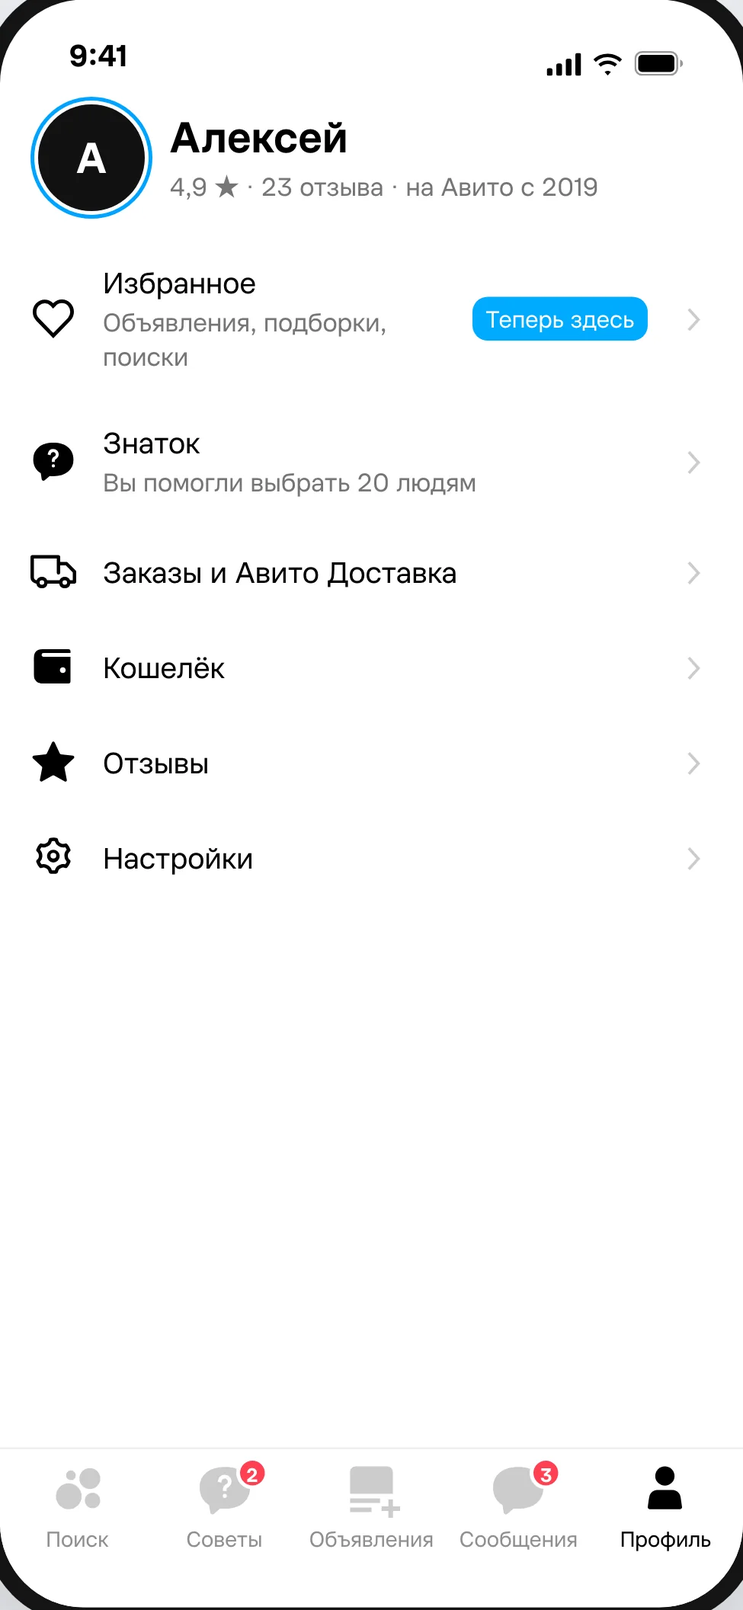
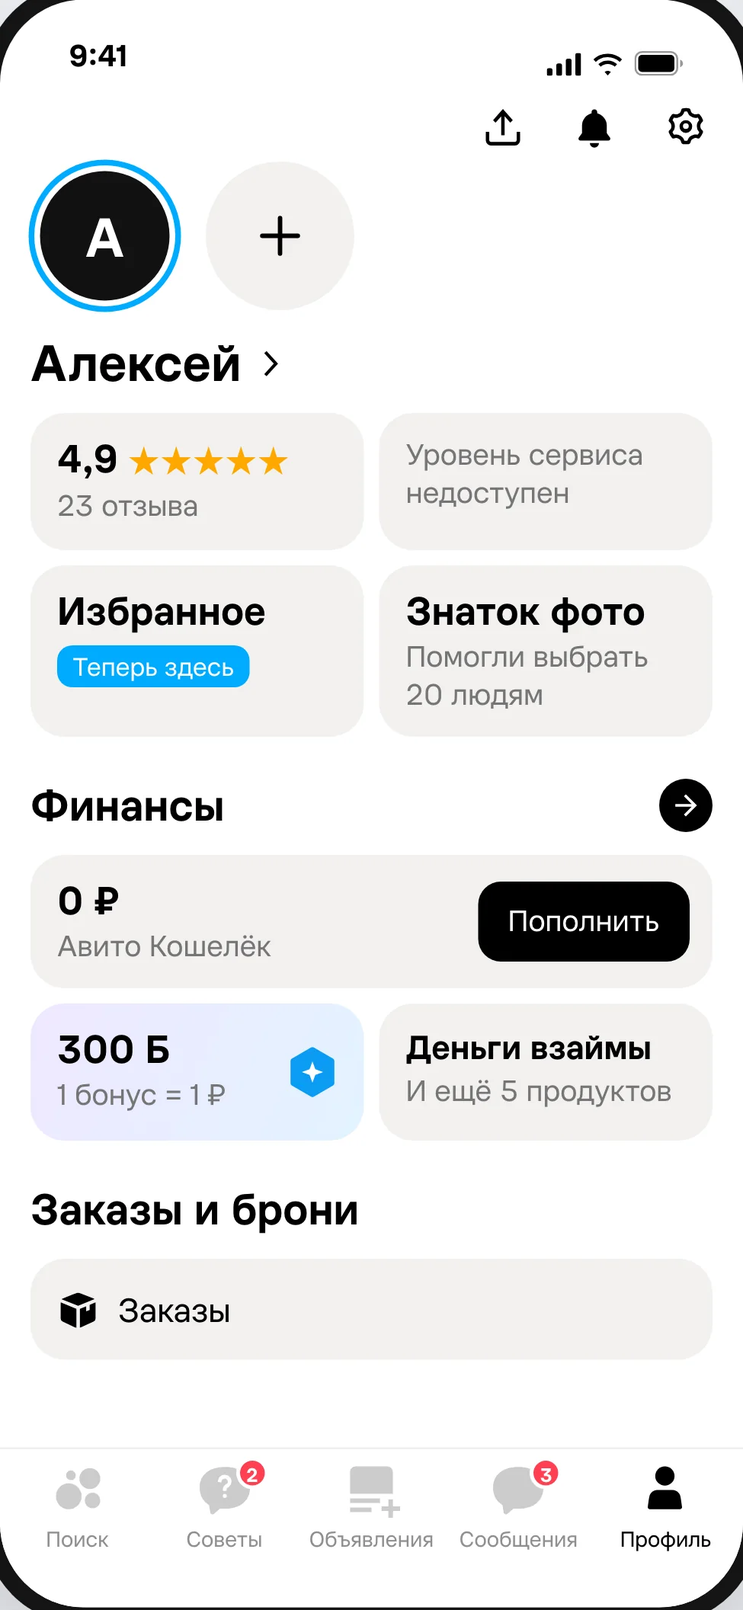
fix: профиль в макетах по настоящему профилю Авито, Избранное и Знаток карточками

diff --git a/maket/index.html b/maket/index.html
@@ -86,7 +86,7 @@ footer{padding:28px 0 44px;font-size:13px;color:var(--muted)}
   <div class="k">4 решения</div>
   <h2>Что выбрали и почему</h2>
   <p class="bp">Итоговый вариант по всем пунктам из видео. Все 10 видов ленты и другие места для Сигнала - в конце страницы, если захочется сравнить.</p>
-  <div class="dgrid"><a class="dc" href="#s01"><div class="h"><span class="num">01</span><b>Лента советов</b></div><p class="dec">Посты как в Instagram и X, собранные из деталей Авито: автор, вопрос, лучший ответ знатока, фото вещи с названием и ценой, счётчики «14 ответов», «Полезно 23», «Близким». Сверху «Мои вопросы», кнопка «Задать вопрос» всегда в углу</p><p class="why">Лента должна цеплять, как соцсети, и быть понятной 60-летнему. Польза видна без клика, обсуждение ведёт к объявлению (23:30)</p><span class="go">К экранам →</span></a><a class="dc" href="#s02"><div class="h"><span class="num">02</span><b>Где живут Советы</b></div><p class="dec">Вкладка «Советы» на месте Избранного. Избранное: кнопка «Избранное» рядом с поиском и первый пункт Профиля</p><p class="why">Слово «Советы» само объясняет, что внутри. Объявления и Сообщения на своих местах (11:41), Избранное в одно касание</p><span class="go">К экранам →</span></a><a class="dc" href="#s05"><div class="h"><span class="num">05</span><b>Близкие</b></div><p class="dec">Переписка в Сообщениях, близкие закреплены сверху. В Советах карточка «Аня просит совета» с кнопкой «Помочь Ане». Присланное оцениваем кнопками «Нравится» и «Не то»</p><p class="why">Одно место для чатов (14:47-15:20). Кнопку со словом поймёт любой, кружок и свайп - не каждый</p><span class="go">К экранам →</span></a><a class="dc" href="#s06"><div class="h"><span class="num">06</span><b>Опыт владельцев</b></div><p class="dec">До 10 отзывов о модели одна цитата, от 10 короткая сводка Ави: плюсы и минусы обычными словами</p><p class="why">Сводка по 2-3 отзывам ненадёжна. Яндекс тоже включает ИИ-сводку от 10 отзывов</p><span class="go">К экранам →</span></a></div>
+  <div class="dgrid"><a class="dc" href="#s01"><div class="h"><span class="num">01</span><b>Лента советов</b></div><p class="dec">Посты как в Instagram и X, собранные из деталей Авито: автор, вопрос, лучший ответ знатока, фото вещи с названием и ценой, счётчики «14 ответов», «Полезно 23», «Близким». Сверху «Мои вопросы», кнопка «Задать вопрос» всегда в углу</p><p class="why">Лента должна цеплять, как соцсети, и быть понятной 60-летнему. Польза видна без клика, обсуждение ведёт к объявлению (23:30)</p><span class="go">К экранам →</span></a><a class="dc" href="#s02"><div class="h"><span class="num">02</span><b>Где живут Советы</b></div><p class="dec">Вкладка «Советы» на месте Избранного. Избранное: кнопка «Избранное» рядом с поиском и карточка в Профиле</p><p class="why">Слово «Советы» само объясняет, что внутри. Объявления и Сообщения на своих местах (11:41), Избранное в одно касание</p><span class="go">К экранам →</span></a><a class="dc" href="#s05"><div class="h"><span class="num">05</span><b>Близкие</b></div><p class="dec">Переписка в Сообщениях, близкие закреплены сверху. В Советах карточка «Аня просит совета» с кнопкой «Помочь Ане». Присланное оцениваем кнопками «Нравится» и «Не то»</p><p class="why">Одно место для чатов (14:47-15:20). Кнопку со словом поймёт любой, кружок и свайп - не каждый</p><span class="go">К экранам →</span></a><a class="dc" href="#s06"><div class="h"><span class="num">06</span><b>Опыт владельцев</b></div><p class="dec">До 10 отзывов о модели одна цитата, от 10 короткая сводка Ави: плюсы и минусы обычными словами</p><p class="why">Сводка по 2-3 отзывам ненадёжна. Яндекс тоже включает ИИ-сводку от 10 отзывов</p><span class="go">К экранам →</span></a></div>
 </section>
 
 <section id="pains">
@@ -97,12 +97,12 @@ footer{padding:28px 0 44px;font-size:13px;color:var(--muted)}
 </section>
 
 <section id="s01"><div class="k">01 · Решение · лента советов</div><h2>Советы: цепляет, как Instagram и X, выглядит как Авито</h2><p class="bp">Интерфейс собран из настоящего Авито: шрифт Avito Sans, иконки и цвета дизайн-системы. Лента устроена как в соцсетях: каждый вопрос - пост с автором, лучшим ответом знатока и крупным фото вещи из ответа, внизу счётчики со словами «14 ответов», «Полезно 23», «Близким». В каждом посте видно, что беспокоит человека и чем всё закончилось. Кнопка «Задать вопрос» всегда в углу экрана. Варианты ленты, которые рассматривали, в конце страницы.</p><div class="rail"><figure class="card"><img src="img/01_feed_01.webp" width="975" height="2113" loading="eager" alt="Открыли Советы"><figcaption><span class="n">1</span><b>Открыли Советы</b><p>Вопрос выглядит как пост в соцсети: автор, боль («дважды падала у метро»), лучший ответ знатока и фото вещи с названием и ценой, как в выдаче Авито. Под ответом итог: «Заказала, спасибо!». Внизу счётчики со словами, кнопка «Задать вопрос» всегда в углу экрана.</p></figcaption></figure><figure class="card"><img src="img/01_feed_02.webp" width="975" height="2113" loading="eager" alt="Когда нужна ваша помощь"><figcaption><span class="n">2</span><b>Когда нужна ваша помощь</b><p>Аня боится купить сломанный фотоаппарат и присылает два варианта с фото, как опрос в соцсети. Помочь можно одной кнопкой «Помочь Ане». Ниже вопрос вашей темы без ответа с пометкой «Можно ответить первым»: Ника боится камеры с дефектом.</p></figcaption></figure></div><div class="cnt"></div></section>
-<section id="s02"><div class="k">02 · Решение · нижняя панель</div><h2>Где живут Советы</h2><p class="bp">Пять вкладок, как в Авито сейчас: «Советы» встают на место Избранного, Объявления и Сообщения остаются на своих местах. Избранное не теряется: кнопка «Избранное» рядом с поиском и первый пункт Профиля с пометкой «Теперь здесь». Главная, плитки категорий и профиль - как в Авито.</p><div class="rail"><figure class="card"><img src="img/02_nav_01.webp" width="975" height="2113" loading="lazy" alt="Советы вместо Избранного"><figcaption><span class="n">1</span><b>Советы вместо Избранного</b><p>Главная Авито как есть, добавлена только кнопка «Избранное» рядом с поиском. В нижней панели пять вкладок: Поиск, Советы, Объявления, Сообщения, Профиль.</p></figcaption></figure><figure class="card"><img src="img/02_nav_02.webp" width="975" height="2113" loading="lazy" alt="Избранное в Профиле"><figcaption><span class="n">2</span><b>Избранное в Профиле</b><p>Избранное первым пунктом профиля с пометкой «Теперь здесь», ниже «Знаток» с вашими ответами. Профиль Авито не переделываем, только добавляем пункты.</p></figcaption></figure></div><div class="cnt"></div></section>
+<section id="s02"><div class="k">02 · Решение · нижняя панель</div><h2>Где живут Советы</h2><p class="bp">Пять вкладок, как в Авито сейчас: «Советы» встают на место Избранного, Объявления и Сообщения остаются на своих местах. Избранное не теряется: кнопка «Избранное» рядом с поиском и карточка в Профиле с пометкой «Теперь здесь». Главная, плитки категорий и профиль - как в Авито.</p><div class="rail"><figure class="card"><img src="img/02_nav_01.webp" width="975" height="2113" loading="lazy" alt="Советы вместо Избранного"><figcaption><span class="n">1</span><b>Советы вместо Избранного</b><p>Главная Авито как есть, добавлена только кнопка «Избранное» рядом с поиском. В нижней панели пять вкладок: Поиск, Советы, Объявления, Сообщения, Профиль.</p></figcaption></figure><figure class="card"><img src="img/02_nav_02.webp" width="975" height="2113" loading="lazy" alt="Избранное в Профиле"><figcaption><span class="n">2</span><b>Избранное в Профиле</b><p>Профиль Авито как есть, добавлены только две карточки в том же стиле: «Избранное» с пометкой «Теперь здесь» и «Знаток» с главным итогом: помогли выбрать 20 людям. 300 бонусов в Финансах начислены за покупки по вашим советам.</p></figcaption></figure></div><div class="cnt"></div></section>
 <section id="s03"><div class="k">03 · Решение · задать вопрос</div><h2>Задать вопрос на одном экране</h2><p class="bp">Одно поле, как письмо другу, и кнопка «Сказать голосом». Категорию, бюджет и размер понимает Ави, помощник Авито, и показывает одной строкой. Кому показать вопрос - два варианта словами. После отправки сразу понятно, что вопрос ушёл и что будет дальше. Пример - ваш собственный вопрос: пуховик, в котором не мёрзнешь на остановке.</p><div class="rail"><figure class="card"><img src="img/03_create_01.webp" width="975" height="2113" loading="lazy" alt="Текстом или голосом"><figcaption><span class="n">1</span><b>Текстом или голосом</b><p>Пишете как в мессенджере или говорите голосом. Ави сам понимает категорию, бюджет и размер. Кому показать - два понятных варианта, выбираются до отправки.</p></figcaption></figure><figure class="card"><img src="img/03_create_02.webp" width="975" height="2113" loading="lazy" alt="Сразу после отправки"><figcaption><span class="n">2</span><b>Сразу после отправки</b><p>Зелёная плашка «Вопрос отправлен» и что будет дальше. Ниже объявления, которые подобрал Ави, и похожие вопросы. Экран не пустой, понятно, что делать, пока ждёте ответ.</p></figcaption></figure><figure class="card"><img src="img/03_create_03.webp" width="975" height="2113" loading="lazy" alt="Когда пришли ответы"><figcaption><span class="n">3</span><b>Когда пришли ответы</b><p>Проблема решилась прямо здесь: знаток одежды Света прислала пуховик вашего размера, вы нажали «Помогло» и пишете «Заказал с Авито Доставкой». У каждого ответа одинаковые кнопки «Помогло» и «Ответить».</p></figcaption></figure></div><div class="cnt"></div></section>
 <section id="s04"><div class="k">04 · Решение · ответить на вопрос</div><h2>Вопрос и ответ</h2><p class="bp">Ответы выглядят как обычные комментарии: сверху тот, что помог автору, под ним ответы на него. У каждого действия есть подпись: «Отправить близким», «Написать ответ», «Добавить объявление». Объявление к ответу прикрепляется кнопкой со словами, а не значком «+». Пример - вопрос Марины через 10 минут после публикации, пока она ещё выбирает: вы советуете из своего опыта.</p><div class="rail"><figure class="card"><img src="img/04_thread_01.webp" width="975" height="2113" loading="lazy" alt="Вопрос и ответы"><figcaption><span class="n">1</span><b>Вопрос и ответы</b><p>Марина боится снова упасть. Илья советует модель с объявлением, а сомнение про размер закрывает прямо в ветке: «Свой, с тёплым носком как раз». Его ответ сверху с пометкой «помогло автору». Остальные 12 ответов открываются кнопкой, свой можно добавить кнопкой «Написать ответ».</p></figcaption></figure><figure class="card"><img src="img/04_thread_02.webp" width="975" height="2113" loading="lazy" alt="«Добавить объявление»"><figcaption><span class="n">2</span><b>«Добавить объявление»</b><p>Нажали «Добавить объявление». Вместо значка «+» кнопка со словами и три понятных способа: подобрать по вопросу, взять из Избранного или сфотографировать свои кроссовки. Шторка закрывается кнопкой «Закрыть».</p></figcaption></figure><figure class="card"><img src="img/04_thread_03.webp" width="975" height="2113" loading="lazy" alt="Подобрать по вопросу"><figcaption><span class="n">3</span><b>Подобрать по вопросу</b><p>Объявления уже отобраны по вопросу Марины. Под каждым кнопка «Выбрать», выбранное отмечено галочкой, а то, что уже посоветовал Илья, помечено «Уже у Ильи». Так ответ сразу ведёт к покупке.</p></figcaption></figure><figure class="card"><img src="img/04_thread_04.webp" width="975" height="2113" loading="lazy" alt="Ответ с вещью"><figcaption><span class="n">4</span><b>Ответ с вещью</b><p>Текст и прикреплённое объявление уходят одним ответом. Если прикрепить своё объявление, ответ получит пометку «Реклама».</p></figcaption></figure></div><div class="cnt"></div></section>
 <section id="s05"><div class="k">05 · Решение · близкие</div><h2>Близкие вместо групп</h2><p class="bp">Групповых чатов с незнакомыми нет: только семья и друзья, которых вы позвали сами, а темы по интересам - в ленте Советов. Переписка живёт в обычных Сообщениях Авито, близкие закреплены сверху. В Советах просьба близкого приходит карточкой с кнопкой «Помочь». Что прислал папа, оцениваем кнопками «Нравится» и «Не то», без свайпов.</p><div class="rail"><figure class="card"><img src="img/05_close_01.webp" width="975" height="2113" loading="lazy" alt="Нажали «Помочь Ане»"><figcaption><span class="n">1</span><b>Нажали «Помочь Ане»</b><p>Поверх Советов открылся семейный чат, тот же, что в Сообщениях. Аня боится купить сломанный, мама одобрила Зенит, вы советуете попросить видео затвора. Шторка закрывается кнопкой «Закрыть».</p></figcaption></figure><figure class="card"><img src="img/05_close_02.webp" width="975" height="2113" loading="lazy" alt="Близкие в Сообщениях"><figcaption><span class="n">2</span><b>Близкие в Сообщениях</b><p>Через час в Сообщениях: близкие закреплены сверху и отделены от продавцов. Аня пишет «Беру! Видео пришло» - продавец прислал видео затвора, её проблема решена. Папа прислал три машины.</p></figcaption></figure><figure class="card"><img src="img/05_close_03.webp" width="975" height="2113" loading="lazy" alt="Чат с папой"><figcaption><span class="n">3</span><b>Чат с папой</b><p>Папа боялся взять машину, которая сгниёт. Прочитал ответы владельцев и решил сам: у Весты ржавеют пороги, берёт Solaris. Его варианты оцениваем по одному кнопками «Нравится» и «Не то», без свайпов.</p></figcaption></figure></div><div class="cnt"></div></section>
 <section id="s06"><div class="k">06 · Решение · карточка объявления</div><h2>Опыт владельцев, который не мешает покупке</h2><p class="bp">Карточка объявления Авито как есть: фото со счётчиком, цена, кнопки внизу. Добавлен только спокойный серый блок «Что говорят владельцы»: до&nbsp;10 отзывов о модели одна цитата, от 10 - короткая сводка Ави с плюсами и минусами (Яндекс тоже включает ИИ-сводку от 10 отзывов). Ниже вопрос об этой модели с лучшим ответом и кнопка «Задать вопрос о модели».</p><div class="rail"><figure class="card"><img src="img/06_item_01.webp" width="975" height="2113" loading="lazy" alt="До 10 отзывов: одна цитата"><figcaption><span class="n">1</span><b>До&nbsp;10 отзывов: одна цитата</b><p>Два главных страха закрыты прямо в карточке. «А вдруг не подойдёт размер» - владельцы: «садятся размер в размер». «А вдруг подделка» - лучший ответ: сверить артикул с сайтом. <span class="pro">Блок спокойный и не спорит с ценой и кнопками покупки.</span></p></figcaption></figure><figure class="card"><img src="img/06_item_02.webp" width="975" height="2113" loading="lazy" alt="От 10 отзывов: сводка Ави"><figcaption><span class="n">2</span><b>От 10 отзывов: сводка Ави</b><p>Плюсы и минусы модели по отзывам владельцев коротко, обычными словами. Так Яндекс показывает сводку отзывов в Маркете, от 10 отзывов. <span class="pro">Работает и для авто, и для техники.</span></p></figcaption></figure><figure class="card"><img src="img/06_item_03.webp" width="975" height="2113" loading="lazy" alt="Вопрос из карточки"><figcaption><span class="n">3</span><b>Вопрос из карточки</b><p>Вопрос о модели задаётся в один шаг, модель уже прикреплена. Если такой вопрос уже задавали, Авито сразу показывает готовые ответы. Про конкретного продавца написать нельзя, его репутация не страдает.</p></figcaption></figure></div><div class="cnt"></div></section>
-<section id="s07"><div class="k">07 · Решение · знатоки</div><h2>Знаток: за что дают и что это даёт</h2><p class="bp">Вкладка «Знаток» внутри обычного профиля Авито, туда ведёт пункт «Знаток» в Профиле. Статус свой в каждой теме и растёт только от отметок «Помогло» и покупок по совету, а не от числа ответов. В ленте рядом с именем видно только слово, например «Знаток обуви», и тонкое кольцо у аватара. Уровни и прогресс живут в профиле.</p><div class="rail"><figure class="card"><img src="img/07_expert_01.webp" width="975" height="2113" loading="lazy" alt="Вкладка «Знаток» в профиле"><figcaption><span class="n">1</span><b>Вкладка «Знаток» в профиле</b><p>Профиль не переделываем, добавляем вкладку рядом с Объявлениями и Отзывами. Главное одной фразой: «Вы помогли выбрать 20 людям», и последнее спасибо: Олег не купил камеру с битым пикселем. Знаток видит, что его совет реально уберёг человека.</p></figcaption></figure><figure class="card"><img src="img/07_expert_02.webp" width="975" height="2113" loading="lazy" alt="Как стать знатоком"><figcaption><span class="n">2</span><b>Как стать знатоком</b><p>Три шага с номерами вместо таблицы уровней: советчик, знаток, эксперт. Считаем только «Помогло» от автора вопроса и покупки по совету.</p></figcaption></figure><figure class="card"><img src="img/07_expert_03.webp" width="975" height="2113" loading="lazy" alt="Чтобы ответ получил каждый"><figcaption><span class="n">3</span><b>Чтобы ответ получил каждый</b><p>Вопрос без ответа через 3 часа поднимается в ленте темы, через 6 часов уходит мягким уведомлением трём знатокам темы, не больше одного в день. Под вопросом одна кнопка «Ответить».</p></figcaption></figure></div><div class="cnt"></div></section>
+<section id="s07"><div class="k">07 · Решение · знатоки</div><h2>Знаток: за что дают и что это даёт</h2><p class="bp">Вкладка «Знаток» внутри обычного профиля Авито, туда ведёт карточка «Знаток» в Профиле. Статус свой в каждой теме и растёт только от отметок «Помогло» и покупок по совету, а не от числа ответов. В ленте рядом с именем видно только слово, например «Знаток обуви», и тонкое кольцо у аватара. Уровни и прогресс живут в профиле.</p><div class="rail"><figure class="card"><img src="img/07_expert_01.webp" width="975" height="2113" loading="lazy" alt="Вкладка «Знаток» в профиле"><figcaption><span class="n">1</span><b>Вкладка «Знаток» в профиле</b><p>Профиль не переделываем, добавляем вкладку рядом с Объявлениями и Отзывами. Главное одной фразой: «Вы помогли выбрать 20 людям», и последнее спасибо: Олег не купил камеру с битым пикселем. Знаток видит, что его совет реально уберёг человека.</p></figcaption></figure><figure class="card"><img src="img/07_expert_02.webp" width="975" height="2113" loading="lazy" alt="Как стать знатоком"><figcaption><span class="n">2</span><b>Как стать знатоком</b><p>Три шага с номерами вместо таблицы уровней: советчик, знаток, эксперт. Считаем только «Помогло» от автора вопроса и покупки по совету.</p></figcaption></figure><figure class="card"><img src="img/07_expert_03.webp" width="975" height="2113" loading="lazy" alt="Чтобы ответ получил каждый"><figcaption><span class="n">3</span><b>Чтобы ответ получил каждый</b><p>Вопрос без ответа через 3 часа поднимается в ленте темы, через 6 часов уходит мягким уведомлением трём знатокам темы, не больше одного в день. Под вопросом одна кнопка «Ответить».</p></figcaption></figure></div><div class="cnt"></div></section>
 
 <section id="alt" style="padding-top:40px">
   <div class="k">Что ещё рассматривали</div>
